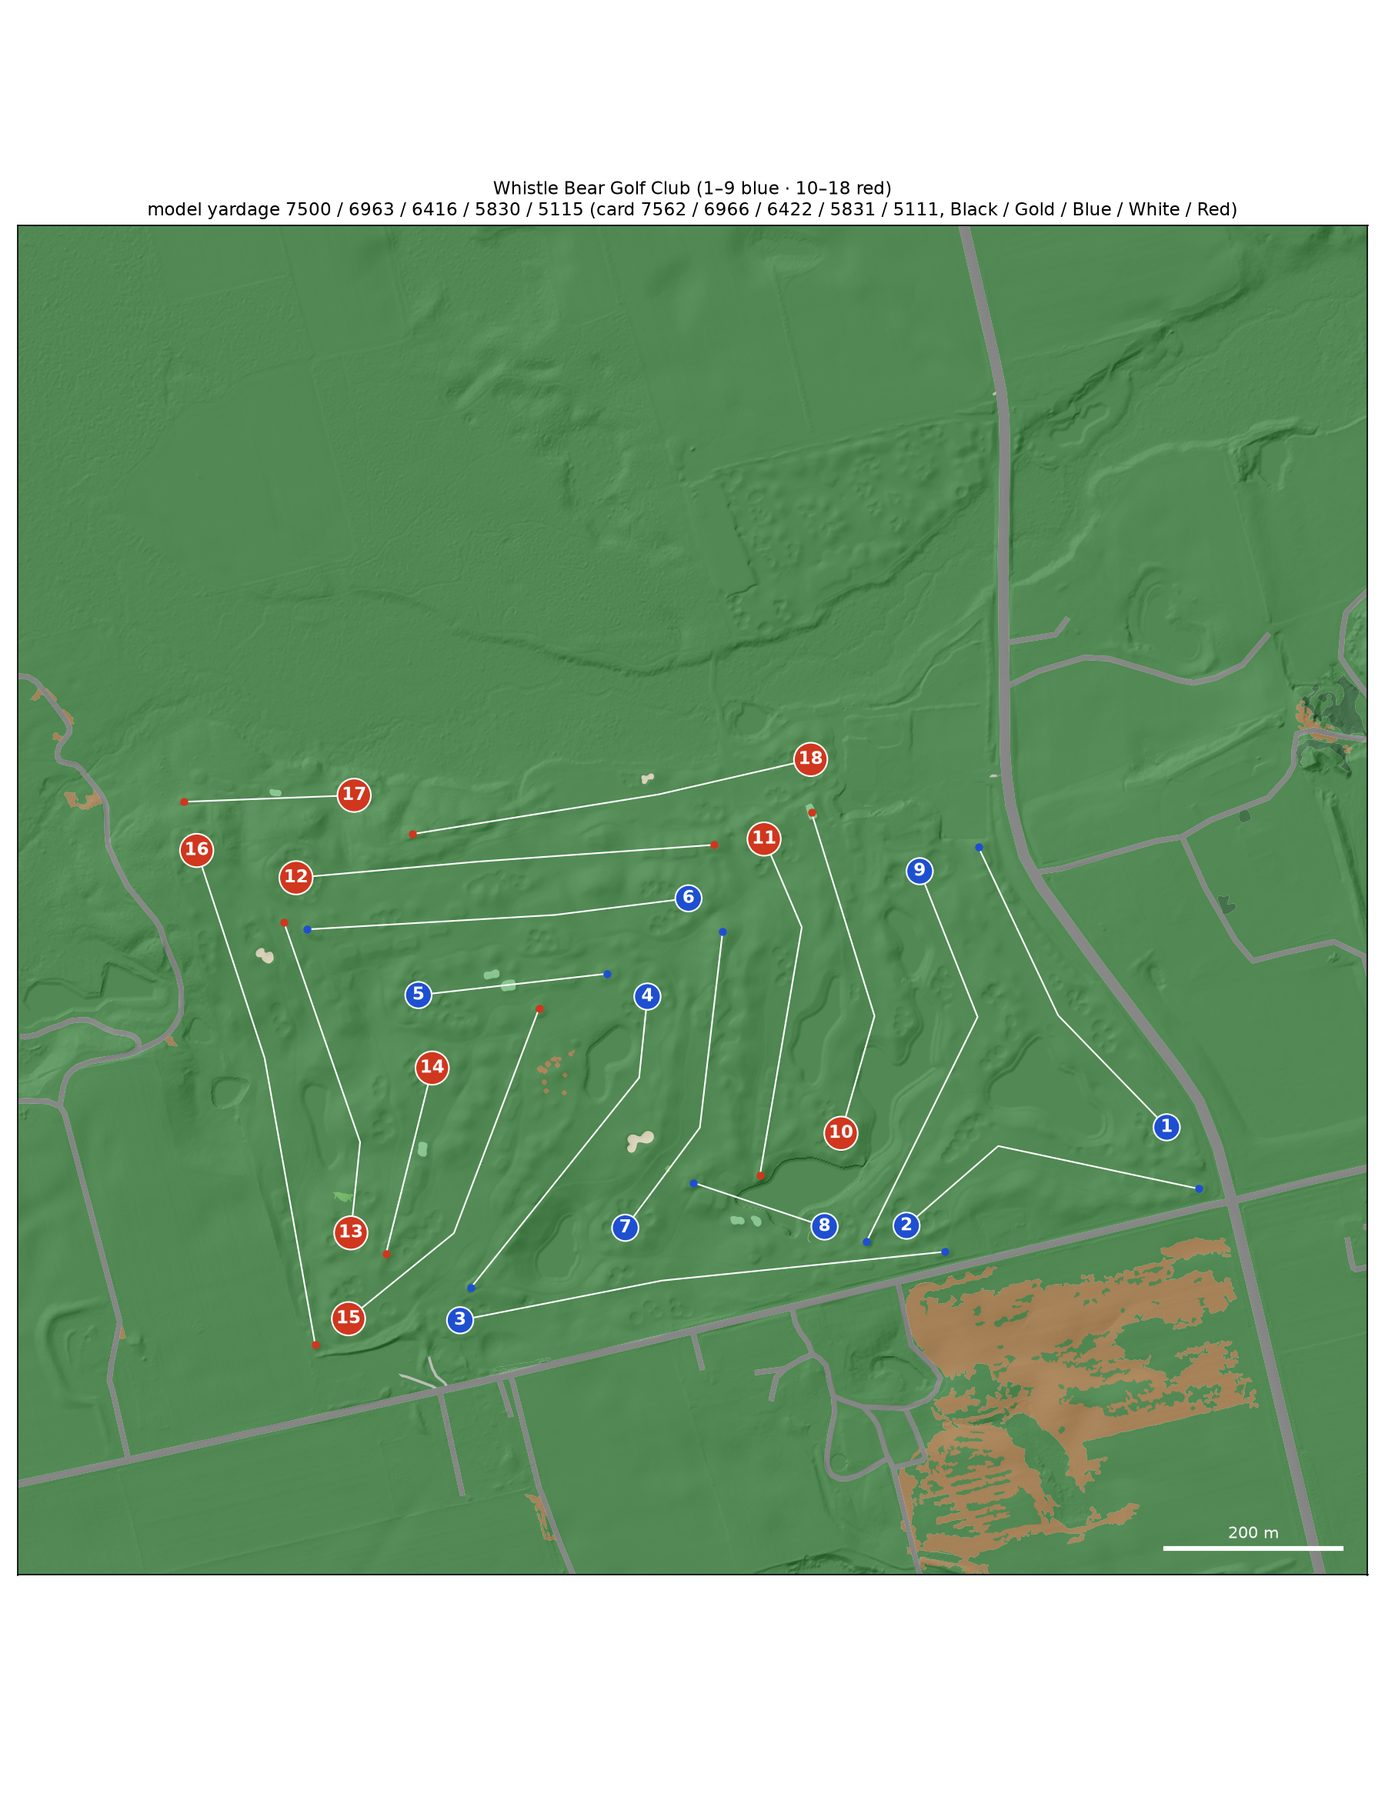
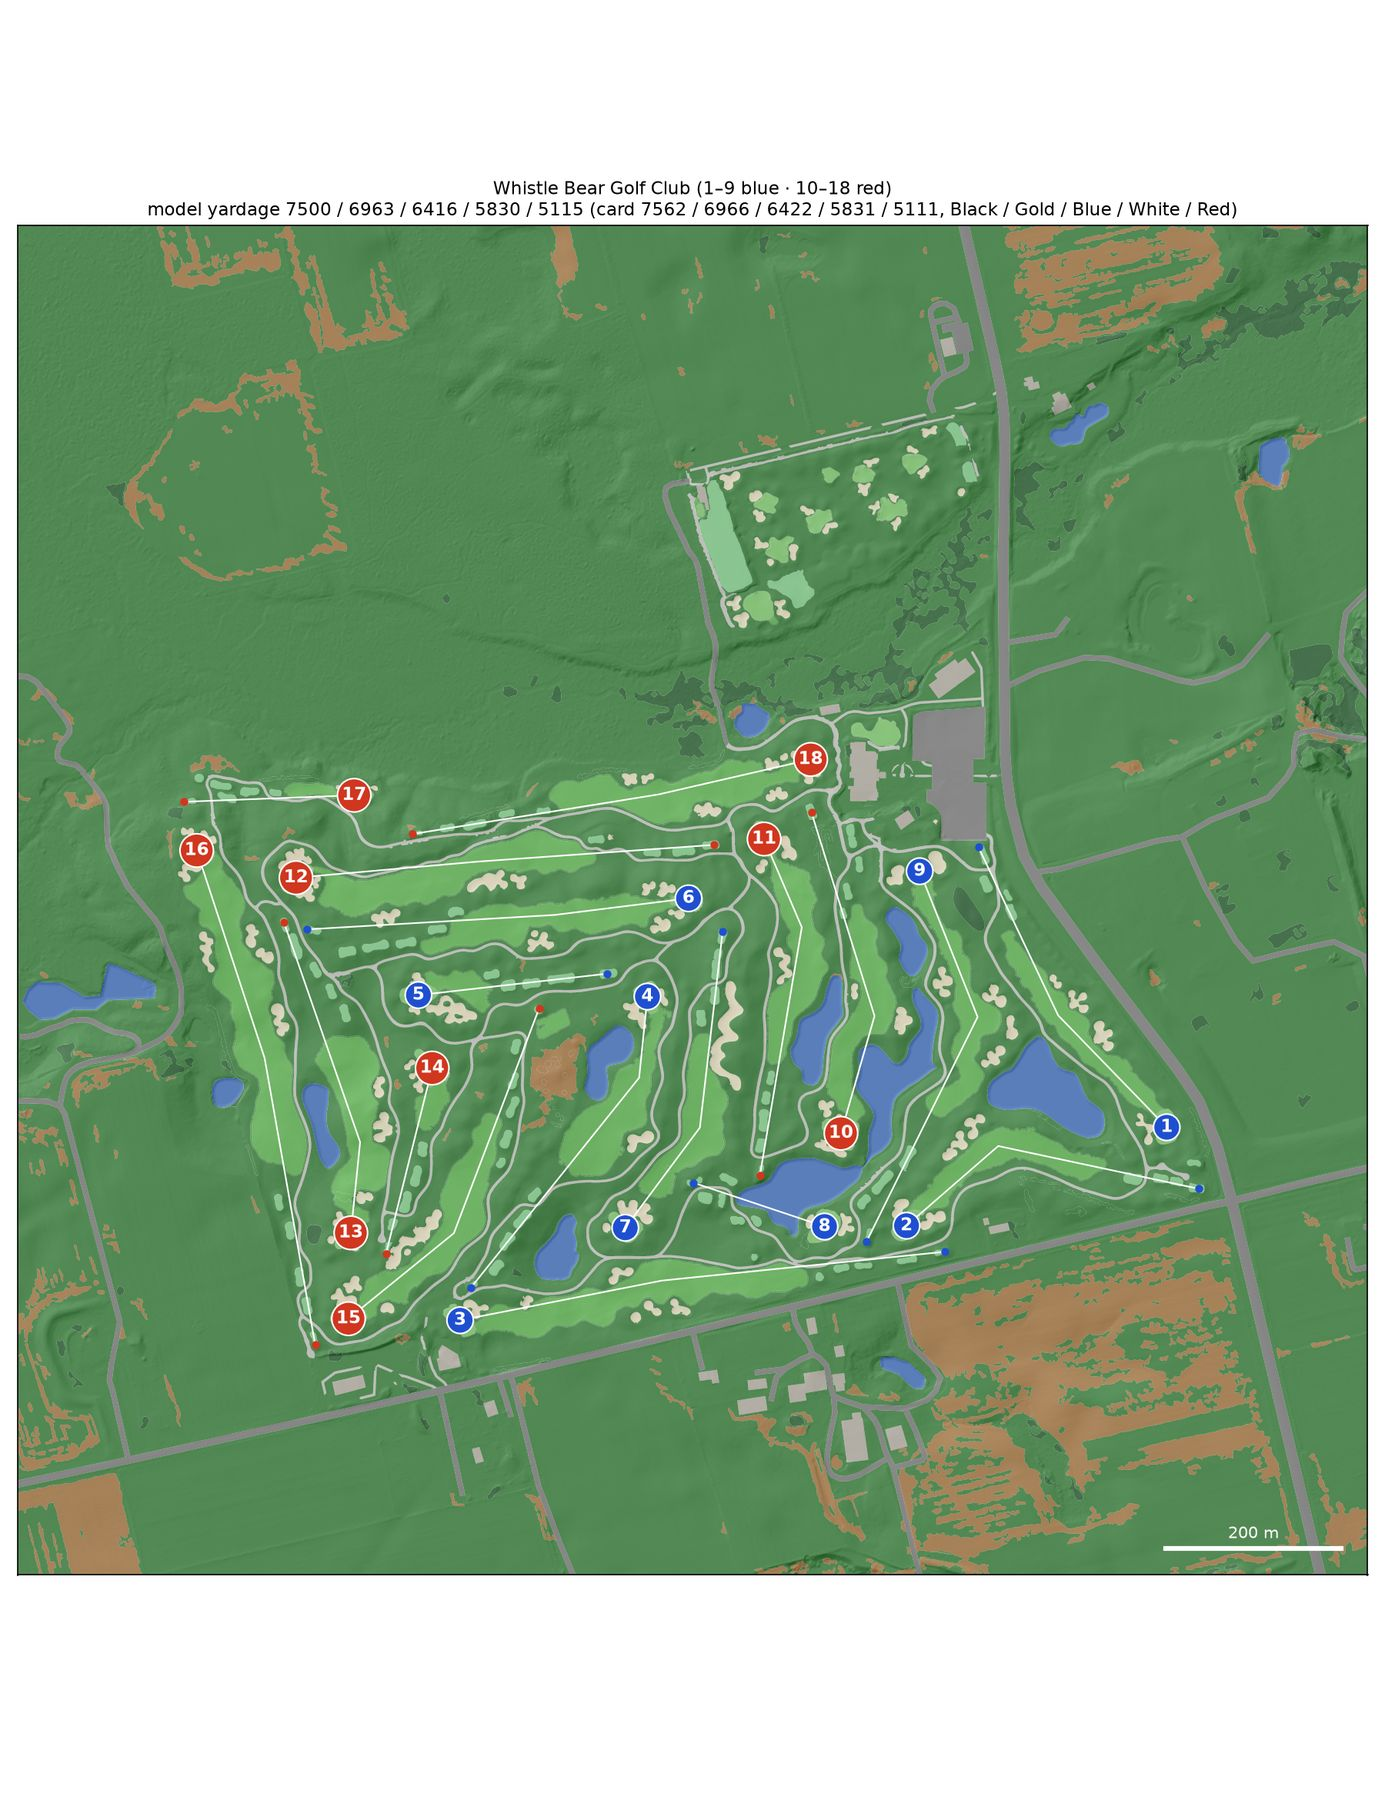
Whistle Bear: README after the QA round 2 engine fixes (#20)
Step 10 records the rebuild on this branch: the pond cut at its cascade, the maps with their fairways, greens,
bunkers and water, and no native-area hazards off the course on holes 2, 3, 16 and 17. The three items move from
"Left for the engine" to fixed; the upper pond's 0.3 m below its water is left. Hole table (hazard column only),
course map and the clean build's timings (about 15 min, peak 7.2 GB in rasters) from the clean build of 11affd6;
test_course 137 passed, 4 skipped.

diff --git a/courses/whistle-bear/README.md b/courses/whistle-bear/README.md
@@ -55,8 +55,8 @@ back of the rearmost decks (see [Known limitations](#known-limitations)). Every 
 | Hole | Par | SI | Black | Gold | Blue | White | Red | Green (yd deep × wide) | Elev. change | Hazards |
 |---|---|---|---|---|---|---|---|---|---|---|
 | 1 | 4 | 3 | 426 (468) | 424 | 410 | 388 | 342 | 34 × 32 | +8 m | 4 bunker, 1 water |
-| 2 | 4 | 1 | 406 | 404 | 390 | 371 | 334 | 46 × 20 | -2 m | 4 bunker, 1 native_area, 1 water |
-| 3 | 5 | 11 | 610 | 567 | 500 | 480 | 410 | 24 × 37 | -3 m | 6 bunker, 1 native_area, 2 water |
+| 2 | 4 | 1 | 406 | 404 | 390 | 371 | 334 | 46 × 20 | -2 m | 4 bunker, 1 water |
+| 3 | 5 | 11 | 610 | 567 | 500 | 480 | 410 | 24 × 37 | -3 m | 6 bunker, 2 water |
 | 4 | 4 | 7 | 436 | 395 | 364 | 332 | 297 | 34 × 26 | -1 m | 3 bunker, 2 water |
 | 5 | 3 | 17 | 236 | 182 | 132 | 108 | 86 | 46 × 18 | -1 m | 3 bunker |
 | 6 | 4 | 5 | 476 | 428 | 404 | 313 | 282 | 39 × 29 | -3 m | 7 bunker |
@@ -69,8 +69,8 @@ back of the rearmost decks (see [Known limitations](#known-limitations)). Every 
 | 13 | 4 | 12 | 403 | 373 | 337 | 306 | 272 | 23 × 32 | +0 m | 6 bunker, 1 water |
 | 14 | 3 | 18 | 238 | 204 | 182 | 138 | 105 | 39 × 34 | -1 m | 3 bunker, 1 native_area |
 | 15 | 4 | 8 | 468 | 414 | 376 | 346 | 304 | 34 × 26 | +0 m | 5 bunker, 5 native_area |
-| 16 | 5 | 4 | 634 | 593 | 555 | 495 | 458 | 22 × 34 | -3 m | 7 bunker, 2 native_area, 2 water |
-| 17 | 3 | 14 | 212 | 196 | 166 | 140 | 100 | 43 × 22 | -2 m | 3 bunker, 3 native_area |
+| 16 | 5 | 4 | 634 | 593 | 555 | 495 | 458 | 22 × 34 | -3 m | 7 bunker, 2 water |
+| 17 | 3 | 14 | 212 | 196 | 166 | 140 | 100 | 43 × 22 | -2 m | 3 bunker, 2 native_area |
 | 18 | 4 | 2 | 504 | 466 | 430 | 384 | 340 | 36 × 24 | -13 m | 8 bunker, 1 water |
 | **Total** | **72** | | **7500** (7562) | **6963** (6966) | **6416** (6422) | **5830** (5831) | **5115** (5111) | | | |
 <!-- /holes-table -->
@@ -121,6 +121,11 @@ The engine's steps are in the [top-level README](../../README.md#how-a-course-is
    of main f3d1312; the brief now lists the engine changes since round 1 so the agents left them alone): two
    corrections approved, none rejected, and no round-1 override found wrong. That makes 65 override features. Every
    hole now scores 9 out of 10 except hole 8 (8, for the water step in the pond beside it, an engine issue).
+10. **Rebuilt on the engine fixes from QA round 2** (2026-10-17,
+    [#20](https://github.com/mescortes/gspro-course-builder/pull/20)): the pond beside hole 10's green is cut at its
+    cascade, so the upper pond's 1,000 m² that sat 1.4 m too low is on the upper plane; the maps draw the fairways,
+    greens, bunkers and water through the rough; holes 2, 3, 16 and 17 no longer list native areas outside the course
+    (64,672 m² of native-area hazards down to 3,701 m²). The yardages are unchanged.
 
 ## QA: what was fixed and what is left
 
@@ -138,16 +143,15 @@ Fixed by overrides in round 2:
 * the unmown long-grass bed short right of hole 9's green, now deep rough.
 
 Fixed in the engine since round 1 (steps 7 and 8): the false green under the forest canopy (holes 17, 18), on a
-metal roof and on the lawns round the course.
+metal roof and on the lawns round the course. Since round 2 (step 10): the pond's two water levels cut at the rock
+cascade instead of 20-45 m west of it; the yardage-book maps and the course map above drawing the big rough polygons
+over the fairways, greens, bunkers and water; native areas outside the course (ploughed fields across Dickie
+Settlement Road) listed as hazards of holes 2, 3, 16 and 17.
 
 Left for the engine (seen on several holes; the engine-wide list is in [TODO.md](../../TODO.md)):
 
-* the pond between holes 8, 9 and 10 falls 1.65 m at a rock cascade, but the engine cuts its two water levels 20-45 m
-  west of the cascade, so about 1,000 m² of the upper pond sits 1.4 m too low, a visible step beside hole 10's green;
-* the yardage-book maps (`make_maps.py`, also the course map above) draw the big rough polygons over the fairways,
-  greens, bunkers and water: a polygon's holes are not cut out;
-* native areas outside the course (ploughed fields across Dickie Settlement Road) listed as hazards of holes 2, 3, 16
-  and 17;
+* the upper pond (beside hole 10's green) is flat at 307.73 m under LiDAR water at 308.05 m: a reach takes the lower
+  end of its 0.3 m band, so 0.3 m of bank shows round it;
 * small false native blobs on mown rough (holes 5, 10, 12-15);
 * traced paths along shadows, forest edges and fences;
 * OSM middle vertices kept as aim points on straight holes (harmless here: under 0.3 yd);
@@ -158,9 +162,9 @@ Left for the engine (seen on several holes; the engine-wide list is in [TODO.md]
 
 Setup and the general commands are in the [top-level README](../../README.md#building-a-course). The downloads are
 about 1.7 GB (LiDAR 850 MB, photo 830 MB, backdrop DEM 25 MB). A clean build on the owner's MacBook Pro (Apple M5 Max,
-64 GB; 2026-10-17, engine at 5f7ae32, downloads in place) took about 21 min: rasters 5 min, export 3 min, maps, gspro,
-vectorize and classify 2-2.5 min each. The largest peaks were rasters 6.7 GB, mesh 5.4 GB and vectorize 4.9 GB. The
-mesh has 4.7 M triangles.
+64 GB; 2026-10-17, engine at 11affd6, downloads in place) took about 15 min: rasters 4.5 min, export 2 min, gspro
+1.5 min, vectorize, classify and maps 1-1.5 min each. The largest peaks were rasters 7.2 GB, mesh 5.5 GB and vectorize
+4.9 GB. The mesh has 4.7 M triangles.
 
 ```bash
 export COURSE=whistle-bear
@@ -186,7 +190,6 @@ python3 scripts/devserver.py 8765   # then open http://localhost:8765/viewer/?co
   sizes come from a closed leaf-off canopy.
 * **Spring photo.** Greens look pale or straw-coloured and the rough brownish in the April photo; the glTF and viewer
   turf is graded to summer (`regions/southern_ontario.toml`). GSPro assigns its own turf materials by object name.
-* **The engine issues listed above**, the water step beside hole 10's green and the maps without fairways among
-  them.
+* **The engine issues listed above**, the upper pond 0.3 m below its water among them.
 * **Windows side not run here.** Unity, OPCD and GreenKeeper do not run on the build host; `grass_3dg.json` values are
   starting estimates.
